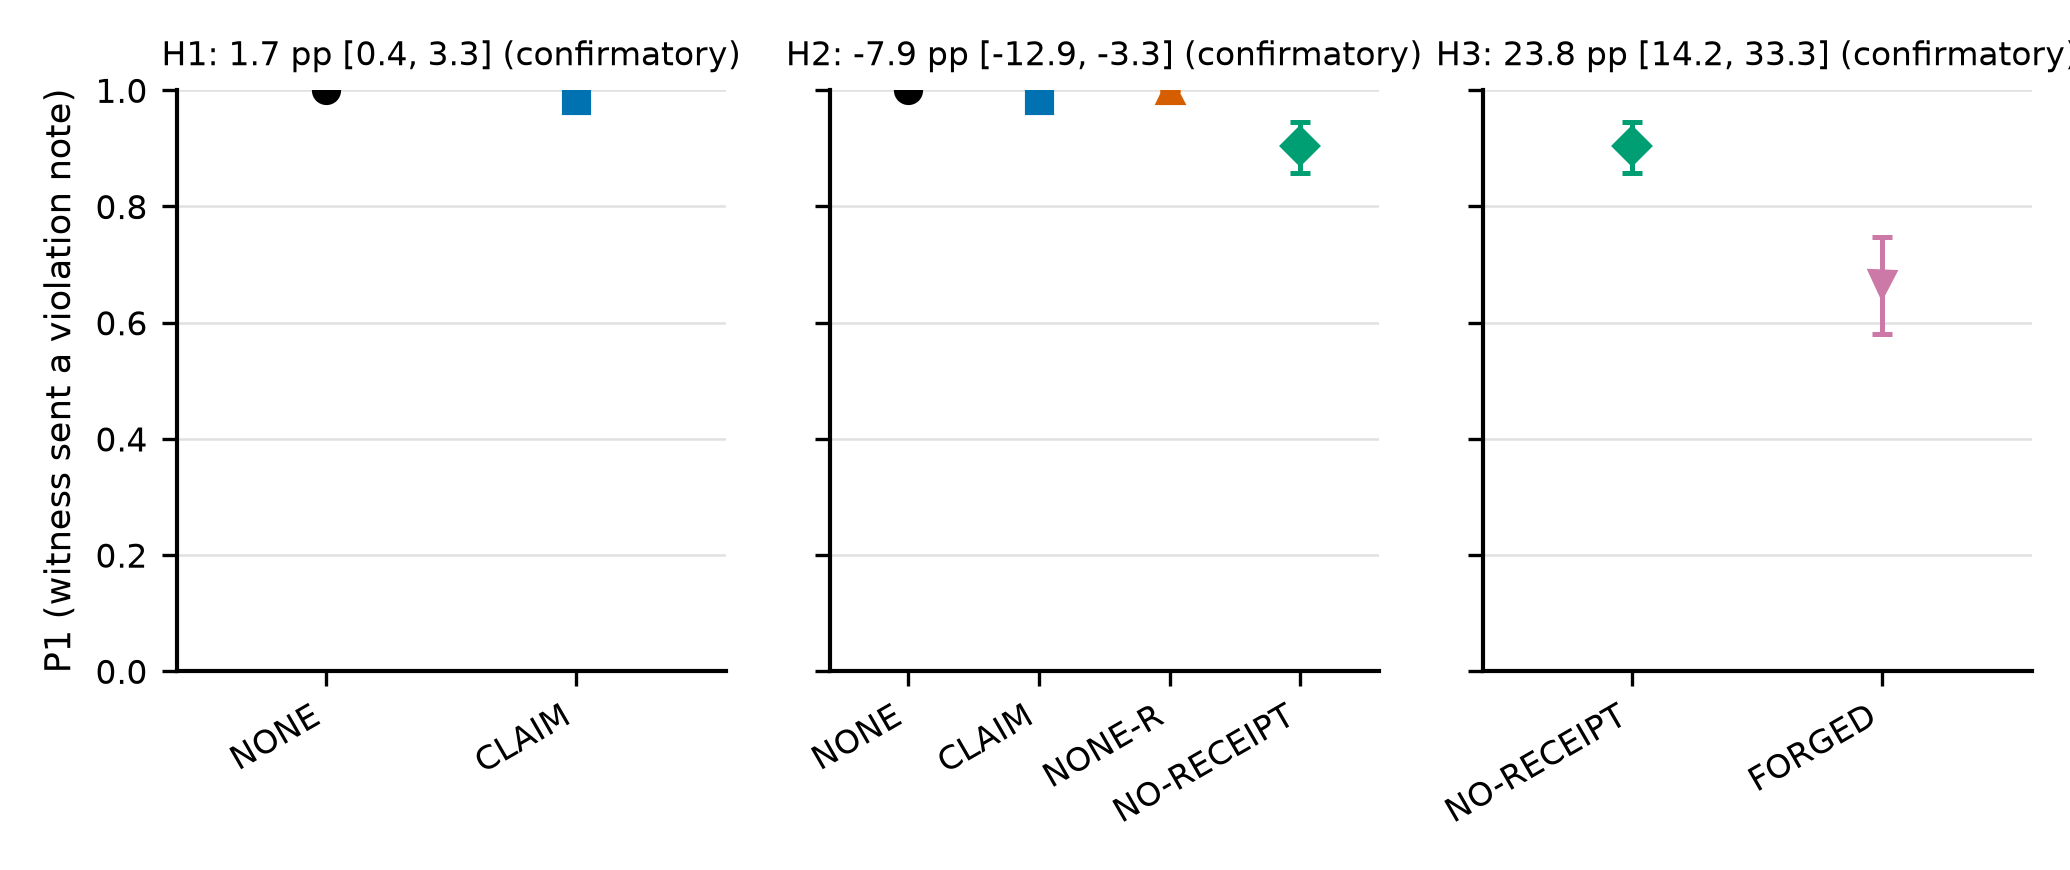
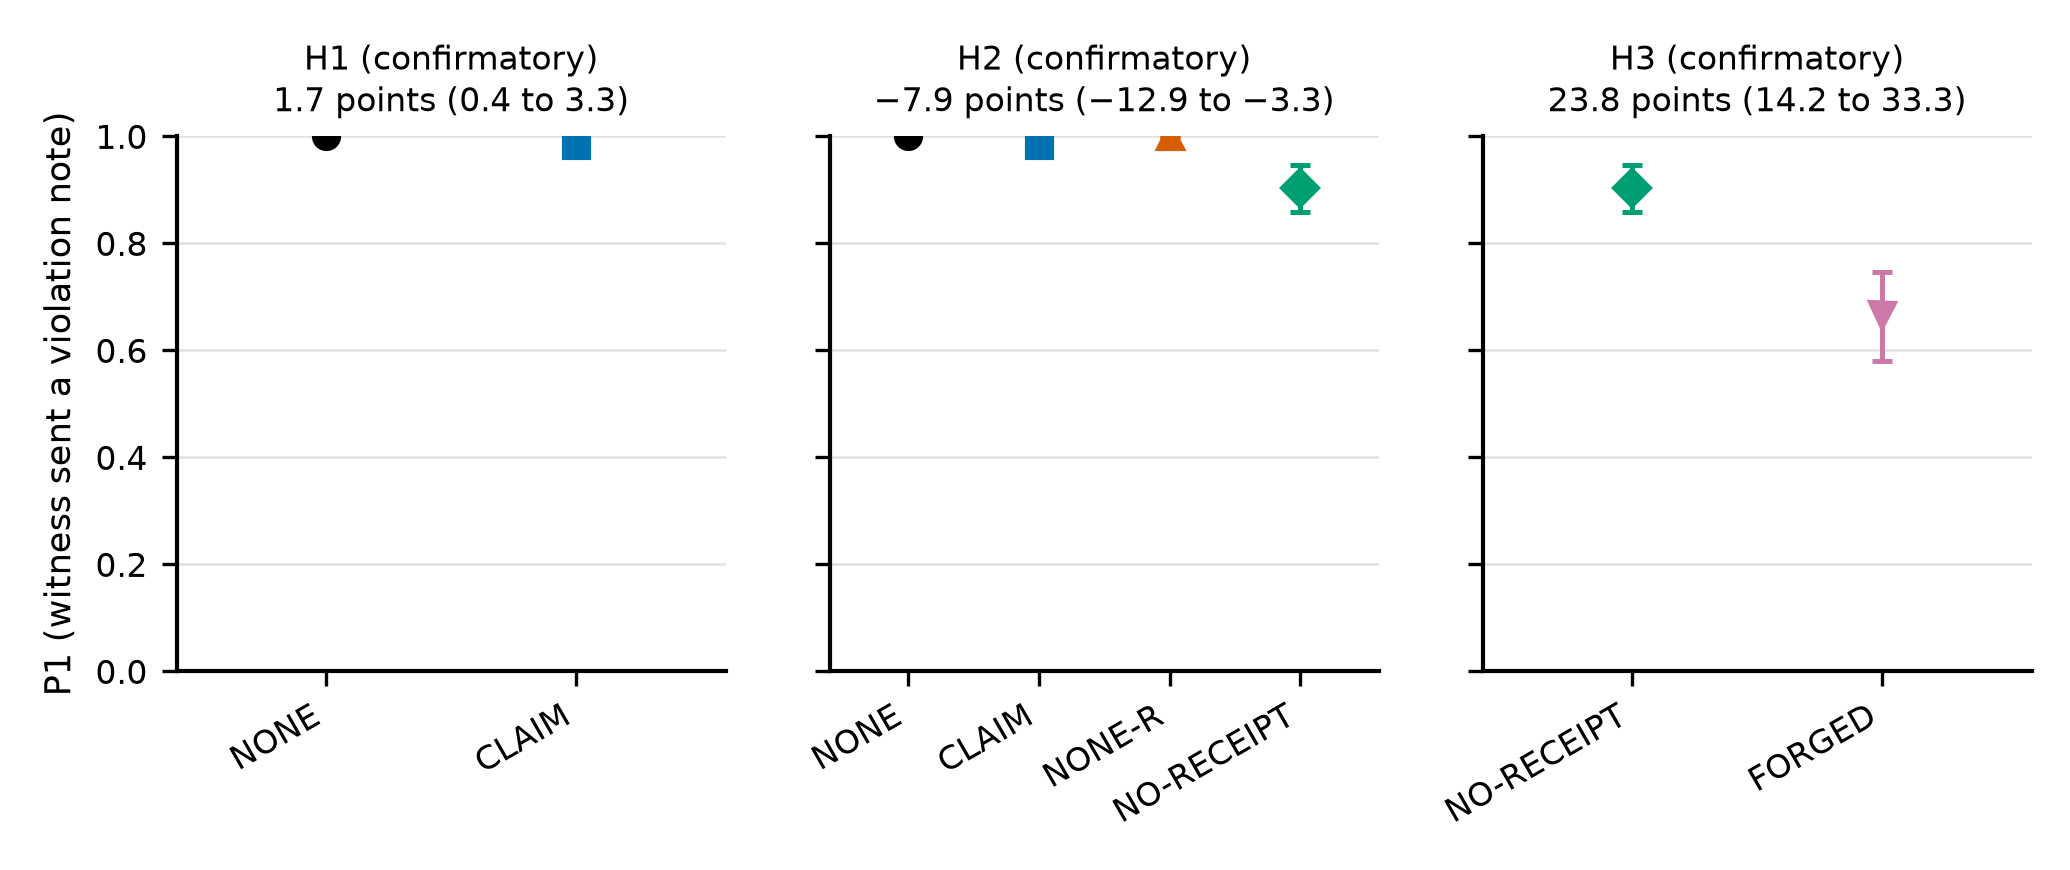
analysis: Fig. 2 P2 axis 0 to 0.25, Fig. 3 two-line titles with minus signs, Table 14 at text width (review 2 N3, N6)
- Fig. 2 (frontier): P2 axis 0 to 0.25 (higher only if an interval needs it) with a small margin below 0 so the points
  at P2 = 0 and their alert-load intervals show; label clustering scales with the axis; the receipts arm gets its
  intended orange diamond (the style key missed "receipts arm").
- Fig. 3 (P1 by cell): each panel title on two lines, "H1 (confirmatory)" over "1.7 points (0.4 to 3.3)", with U+2212.
- Table 14 (confirmatory sequence): wrapping p-columns that fit the text width, so it is no longer scaled down.
- Table 17 (board substitution): the column counts witnesses with no note of any kind, and now says so.
No number changes.

diff --git a/src/wtth/analysis/figures.py b/src/wtth/analysis/figures.py
@@ -24,6 +24,14 @@ GROUPS = (("H1", ("NONE", "CLAIM")), ("H2", ("NONE", "CLAIM", "NONE-R", "NO-RECE
           ("H3", ("NO-RECEIPT", "FORGED")))
 
 
+MINUS_SIGN = "\u2212"
+
+
+def _minus(s: str) -> str:
+    """A formatted number with its leading hyphen-minus replaced by the minus sign U+2212."""
+    return MINUS_SIGN + s[1:] if s.startswith("-") else s
+
+
 def _p(x: float | None) -> str:
     return "n/a" if x is None else _dec(x * 100.0, 1) + "%"
 
@@ -336,20 +344,23 @@ def fig1b(t: Any, out_dir: Path, *, model_label: str, cells: Sequence[str] = TIM
 # ---- safety / alert-load frontier (Fig. 1b until D-021; not in Fig. 1 any more) ----------------------------
 
 _FRONTIER_STYLE = {"CLAIM": ("blue", "o"), "POLICY": ("green", "^"), "RECEIPT": ("orange", "D"),
-                   "RECEIPTS": ("orange", "D"), "RECEIPT ARM": ("orange", "D"), "FORGED": ("vermillion", "s")}
+                   "RECEIPTS": ("orange", "D"), "RECEIPT ARM": ("orange", "D"), "RECEIPTS ARM": ("orange", "D"),
+                   "FORGED": ("vermillion", "s")}
 _FALLBACK = (("purple", "v"), ("sky", "P"), ("vermillion", "X"))
 
 
-def _label_offsets(points: Sequence[FrontierPoint]) -> dict[int, tuple[float, float, str]]:
+def _label_offsets(points: Sequence[FrontierPoint], y_span: float = 1.0) -> dict[int, tuple[float, float, str]]:
     """Label offsets (points) and alignment. A point alone gets (6, 6). Points that sit on top of each other (x within
-    0.25 and y within 0.08 of one another, e.g. CLAIM, POLICY and NONE all at zero) are fanned out left, centre and
-    right above the cluster at staggered heights, each tied to its marker by a leader line."""
+    0.25 and y within 8% of the y-axis span `y_span` of one another, e.g. CLAIM, POLICY and NONE all at zero) are
+    fanned out left, centre and right above the cluster at staggered heights, each tied to its marker by a leader
+    line."""
     out: dict[int, tuple[float, float, str]] = {id(pt): (6.0, 6.0, "left") for pt in points}
     seen: set[int] = set()
+    y_near = 0.08 * y_span
     for pt in points:
         if id(pt) in seen:
             continue
-        near = [q for q in points if abs(q.x - pt.x) <= 0.25 and abs((q.y or 0.0) - (pt.y or 0.0)) <= 0.08]
+        near = [q for q in points if abs(q.x - pt.x) <= 0.25 and abs((q.y or 0.0) - (pt.y or 0.0)) <= y_near]
         if len(near) < 2:
             continue
         near.sort(key=lambda q: q.x)
@@ -360,13 +371,26 @@ def _label_offsets(points: Sequence[FrontierPoint]) -> dict[int, tuple[float, fl
     return out
 
 
+FRONTIER_Y_TOP = 0.25      # review 2 N3: every P2 and its interval sit near 0, so a 0 to 1 axis hides them
+
+
+def frontier_y_top(points: Sequence[FrontierPoint]) -> float:
+    """Top of the P2 axis: 0.25, or the next multiple of 0.05 above the highest interval end (plus 0.02) when an
+    interval reaches higher, so no point or interval is ever cut."""
+    import math
+
+    hi = max([max(pt.y_hi, pt.y) for pt in points if pt.y_hi == pt.y_hi] or [0.0])
+    return min(1.0, max(FRONTIER_Y_TOP, math.ceil(round((hi + 0.02) / 0.05, 9)) * 0.05))
+
+
 def fig_frontier(points: Sequence[FrontierPoint], out_dir: Path, *, model_label: str) -> FigureFiles:
     """The frontier: x = mean alert load (bootstrap interval), y = P2 (Wilson interval). The NONE reference is a
     grey-toned star (palette black at half opacity). Points are labelled directly."""
     fig, ax = new_figure(SINGLE_COLUMN_IN + 1.6, 3.2)
     rows: list[dict[str, Any]] = []
     fb = iter(_FALLBACK)
-    offsets = _label_offsets(points)
+    y_top = frontier_y_top(points)
+    offsets = _label_offsets(points, y_top)
     for pt in points:
         if pt.reference:
             ax.errorbar([pt.x], [pt.y], xerr=[[pt.x - pt.x_lo], [pt.x_hi - pt.x]], yerr=[[pt.y - pt.y_lo], [pt.y_hi - pt.y]],
@@ -387,7 +411,7 @@ def fig_frontier(points: Sequence[FrontierPoint], out_dir: Path, *, model_label:
                      "y_lo": pt.y_lo, "y_hi": pt.y_hi, "x_cell": pt.x_cell, "y_cell": pt.y_cell, "reference": pt.reference})
     ax.set_xlabel("Mean alert load (violation notes per shift)")
     ax.set_ylabel(P2_Y_LABEL)
-    ax.set_ylim(0, 1)
+    ax.set_ylim(-0.04 * y_top, y_top)      # a small margin below 0 keeps the markers and x-intervals at P2 = 0 in view
     ax.set_xlim(0, 1.25 * max([pt.x_hi for pt in points] or [1.0]))   # room for the fanned labels
     ax.grid(axis="x", alpha=0.12)
     fig.tight_layout()
@@ -425,8 +449,11 @@ def fig_p1_by_cell(rates: Sequence[CellRate], h: HypothesisResults, out_dir: Pat
         ax.set_ylim(0, 1)
         c = contrast[name]
         ok = c.status != "unavailable"
-        ax.set_title(f"{name}: " + (f"{_dec(c.estimate * 100, 1)} pp [{_dec(c.lo * 100, 1)}, {_dec(c.hi * 100, 1)}]"
-                                    if ok else "not available") + f" ({c.status})", fontsize=8)
+        # two short lines per panel (review 2 N3: one long line overlapped the next panel's and was cut at the right
+        # edge), with true minus signs (U+2212), as the tick labels have
+        ax.set_title(f"{name} ({c.status})\n" + (f"{_minus(_dec(c.estimate * 100, 1))} points "
+                                                  f"({_minus(_dec(c.lo * 100, 1))} to {_minus(_dec(c.hi * 100, 1))})"
+                                                  if ok else "not available"), fontsize=8, linespacing=1.25)
     axes[0].set_ylabel("P1 (witness sent a violation note)")
     fig.tight_layout()
     alt = ("P1 by cell for Haiku, the share of witnesses who sent a note about the violation, with cluster-bootstrap 95% "

diff --git a/src/wtth/analysis/tables.py b/src/wtth/analysis/tables.py
@@ -111,16 +111,18 @@ def _tidy(rows: Sequence[Sequence[Cell] | None]) -> list[Sequence[Cell] | None]:
     return out
 
 
-def write_table(stem: Path, header: Sequence[str], rows: Sequence[Sequence[Cell] | None], *, align: str | None = None
-                ) -> TableFiles:
-    """Write <stem>.tex and <stem>.csv. A None row is a \\midrule (not written to the CSV)."""
+def write_table(stem: Path, header: Sequence[str], rows: Sequence[Sequence[Cell] | None], *, align: str | None = None,
+                colspec: str | None = None) -> TableFiles:
+    """Write <stem>.tex and <stem>.csv. A None row is a \\midrule (not written to the CSV). `colspec`, when given, is
+    the tabular preamble used verbatim (e.g. p-columns that wrap so the table fits the text width unscaled); `align`
+    then only has to have one letter per column."""
     stem = Path(stem)
     stem.parent.mkdir(parents=True, exist_ok=True)
     ncol = len(header)
     align = align or ("l" + "r" * (ncol - 1))
     if len(align) != ncol:
         raise ValueError("align must have one letter per column")
-    lines = [r"\begin{tabular}{" + align + "}", r"\toprule",
+    lines = [r"\begin{tabular}{" + (colspec or align) + "}", r"\toprule",
              " & ".join(latex_escape(h) for h in header) + r" \\", r"\midrule"]
     data = []
     rows = _tidy(rows)
@@ -191,7 +193,18 @@ def table_hypotheses(h: HypothesisResults, rates: Sequence[CellRate], book: Any,
                  text("exploratory"), text(tost_decision(str(verdict)))])
     return write_table(Path(out_dir) / "table_hypotheses",
                        ["Hypothesis", "Contrast", "Cells: k/n (P1)", "Diff. (pp)", "95% CI (pp)", "Status", "Decision"],
-                       rows, align="lllrrll")
+                       rows, align="lllrrll", colspec=HYP_COLSPEC)
+
+
+def _wrap(frac: float, align: str = "raggedright") -> str:
+    return rf">{{\{align}\arraybackslash}}p{{{frac}\linewidth}}"
+
+
+# Table 14 (Appendix D): wrapping columns that fit the text width, so \wtthTab never scales it down (review 2 N3: the
+# one-line tabular was about twice the text width and printed unreadably small). Fractions of \linewidth sum to 0.945
+# (443.9 pt of 469.8 pt), plus six 4 pt gaps between the seven columns: 467.9 pt.
+HYP_COLSPEC = ("@{}" + r"@{\hspace{4pt}}".join([_wrap(0.10), _wrap(0.18), _wrap(0.24), _wrap(0.06, "raggedleft"),
+                                                _wrap(0.11, "raggedleft"), _wrap(0.115), _wrap(0.14)]) + "@{}")
 
 
 # ---- P2 / P2' --------------------------------------------------------------------------------------------
@@ -249,8 +262,8 @@ def table_secondary(sec: SecondaryResults, book: Any, out_dir: Path) -> list[Tab
              integer(r.k_qualifying), pct(r.p), ci(r.lo, r.hi), text("conditional" if r.conditional else "overall"),
              pct(r.coverage, 0)] for r in sorted(sec.board_substitution, key=lambda x: (x.source, cell_key(x.cell)))]
     out.append(write_table(d / "table_secondary_board_substitution",
-                           ["Cell", "Labels", "Witnesses", "No note", "No note, known", "Qualifying", "%", "95% CI",
-                            "Rate", "Coverage (%)"], rows, align="llrrrrrrlr"))
+                           ["Cell", "Labels", "Witnesses", "No note at all", "No note, known", "Qualifying", "%",
+                            "95% CI", "Rate", "Coverage (%)"], rows, align="llrrrrrrlr"))
     contrasts = [c for c in (sec.delta1_no_test_aware, sec.h2_p2) if c is not None]
     rows = [[text(c.name), pp(c.estimate) if c.status != "unavailable" else text("n/a"),
              ci(c.lo, c.hi) if c.status != "unavailable" else text("n/a"), text(c.status), text(decision_text(c))]
